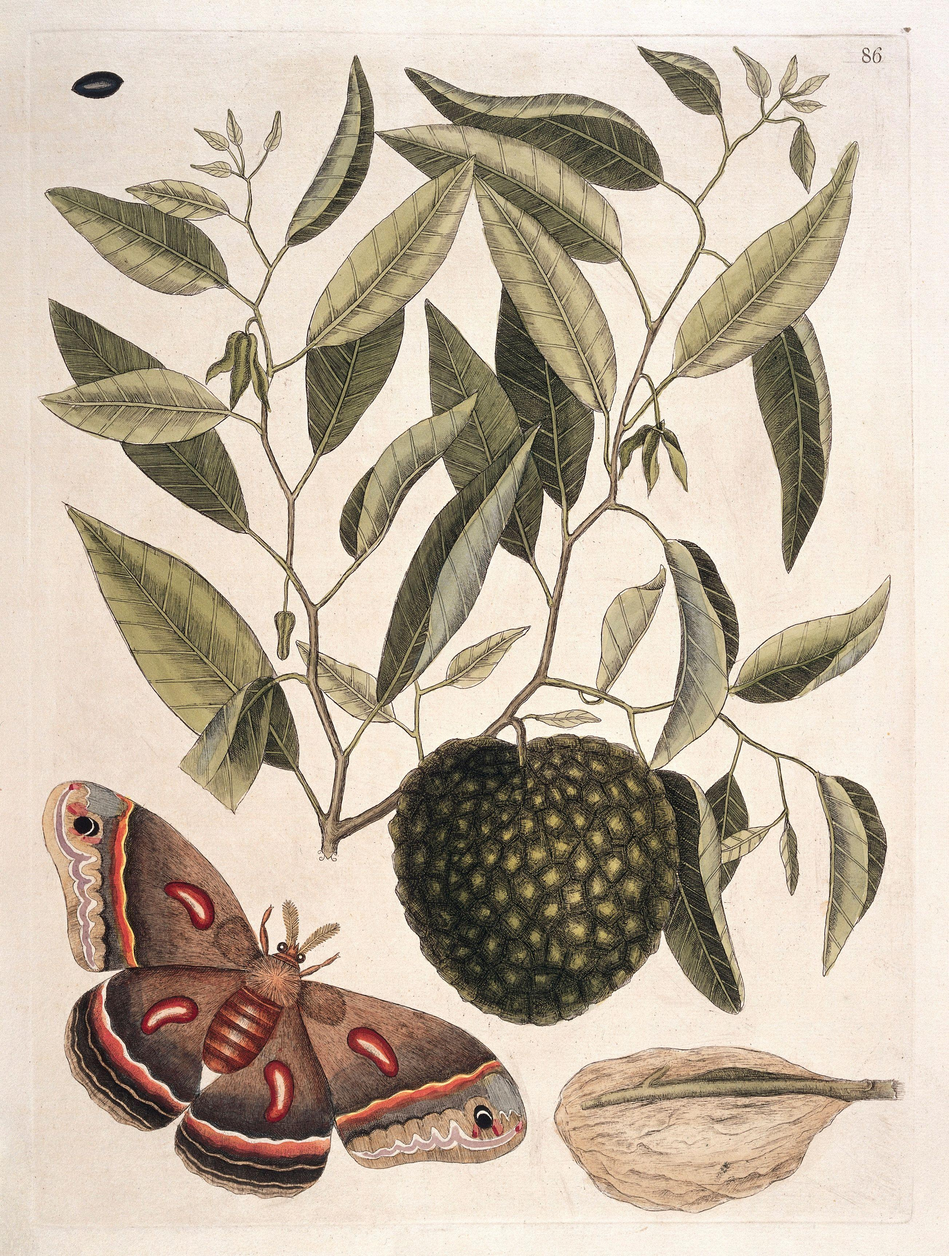
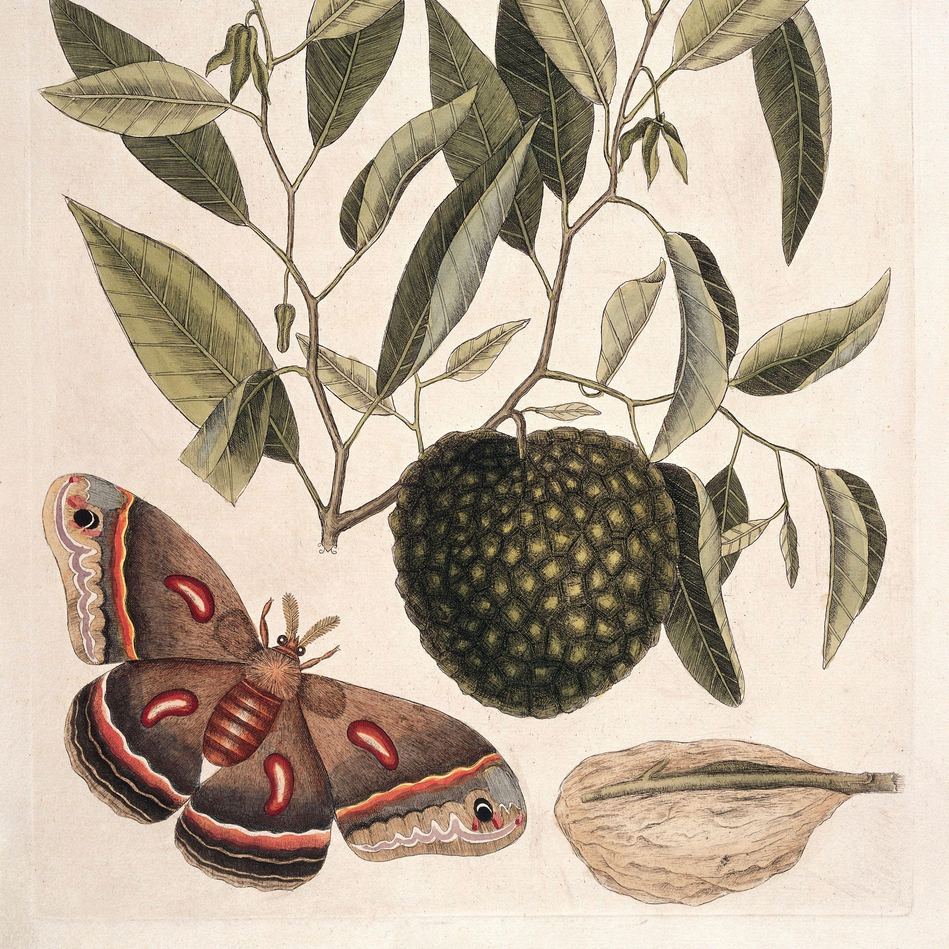
added header overlay to homepage and cropped images

diff --git a/_pages/home.md b/_pages/home.md
@@ -1,13 +1,14 @@
 ---
+title: "Collages of the Environment in Caribbean Literature"
 layout: splash
 permalink: /
 excerpt: "A hypertextual experiment in close reading"
 header:
-    image: /assets/img/coconut.jpg
+    overlay_image: /assets/img/coconut.jpg
     overlay_filter: 0.5
     actions:
-        - label: "Start Here"
-        - url: https://meredithsauer.github.io/caribbean-collages/introduction/
+    - label: "Start Here"
+      url: https://meredithsauer.github.io/caribbean-collages/introduction/
 ---
 > What took place in the Caribbean, which could be summed up in the word creolization, approximates the idea of Relation for us as nearly as possible. It is not merely an encounter, a shock ... a métissage, but a new and original dimension allowing each person to be there and elsewhere, rooted and open, lost in the mountains and free beneath the sea, in harmony and in errantry. 
 
